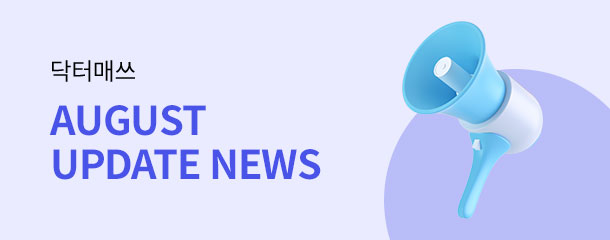
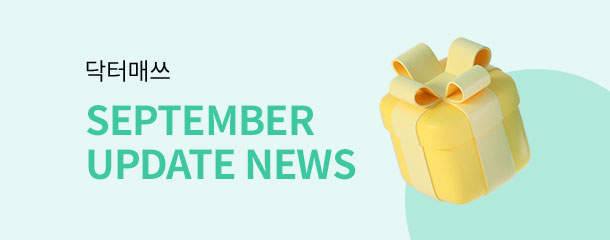
수정 사항 작업, 이미지 변경

diff --git a/html/sub04_03_list.html b/html/sub04_03_list.html
@@ -106,7 +106,7 @@
                 <li>
                   <a href="javascript:;">
                     <div class="img-box">
-                      <img src="../images/sub/thum01.png" alt="닥터매쓰 SEPTEMBER UPDATE NEWS">
+                      <img src="../images/sub/sub04_03_thumb01.jpg" alt="닥터매쓰 SEPTEMBER UPDATE NEWS">
                     </div>
                     <div class="tit">
                       <span>9월 업데이트 소식 <img src="../images/common/ico_new.png" alt="NEW"></span>
@@ -116,7 +116,7 @@
                 <li>
                   <a href="javascript:;">
                     <div class="img-box">
-                      <img src="../images/sub/sub04_03_thumb01.jpg" alt="닥터매쓰 AUGUST UPDATE NEWS">
+                      <img src="../images/sub/sub04_03_thumb02.jpg" alt="닥터매쓰 AUGUST UPDATE NEWS">
                     </div>
                     <div class="tit">
                       <span>8월 업데이트 소식</span>
@@ -126,7 +126,7 @@
                 <li>
                   <a href="javascript:;">
                     <div class="img-box">
-                      <img src="../images/sub/sub04_03_thumb02.jpg" alt="닥터매쓰 JULY UPDATE NEWS">
+                      <img src="../images/sub/sub04_03_thumb03.jpg" alt="닥터매쓰 JULY UPDATE NEWS">
                     </div>
                     <div class="tit">
                       <span>7월 업데이트 소식</span>
@@ -136,7 +136,7 @@
                 <li>
                   <a href="javascript:;">
                     <div class="img-box">
-                      <img src="../images/sub/sub04_03_thumb03.jpg" alt="닥터매쓰 JUNE UPDATE NEWS">
+                      <img src="../images/sub/sub04_03_thumb04.jpg" alt="닥터매쓰 JUNE UPDATE NEWS">
                     </div>
                     <div class="tit">
                       <span>6월 업데이트 소식</span>

diff --git a/html/sub04_02_view.html b/html/sub04_02_view.html
@@ -125,13 +125,13 @@
                     <tr class="next-cnt">
                       <th><img src="../images/sub/ic-arrow-up.png" alt="">다음글</th>
                       <td>
-                        <span>닥터매쓰 분석표를 통해 학생들 성적을 수월하게 향상 시킬 수 있습니다.</span>
+                        <a href="javascript:;">닥터매쓰 분석표를 통해 학생들 성적을 수월하게 향상 시킬 수 있습니다.</a>
                       </td>
                     </tr>
                     <tr class="prev-cnt">
                       <th><img src="../images/sub/ic-arrow-down.png" alt="">이전글</th>
                       <td>
-                        <span>반복된 오답 학습을 통해 실수를 줄였습니다.</span>
+                        <a href="javascript:;">반복된 오답 학습을 통해 실수를 줄였습니다.</a>
                       </td>
                     </tr>
                   </tbody>

diff --git a/html/sub04_03_view.html b/html/sub04_03_view.html
@@ -128,7 +128,7 @@
                     <tr class="next-cnt">
                       <th><img src="../images/sub/ic-arrow-up.png" alt="">다음글</th>
                       <td>
-                        <span>[닥터매쓰 8월 UPDATE NEWS]</span>
+                        <a href="javascript:;">[닥터매쓰 8월 UPDATE NEWS]</a>
                       </td>
                     </tr>
                     <tr class="prev-cnt">

diff --git a/inc/css/sh.css b/inc/css/sh.css
@@ -89,6 +89,7 @@
 
 .user-cnt .tab-menu-type01 {
   width: 100%;
+  margin-top: 20px;
 }
 .user-cnt .tab-menu-type01 li {
   width: 33.333%;

diff --git a/inc/scss/sh.scss b/inc/scss/sh.scss
@@ -6,6 +6,7 @@
 .user-cnt {
 	.tab-menu-type01 {
 		width: 100%;
+		margin-top: 20px;
 		li {
 			width: 33.333%;
 			a {
